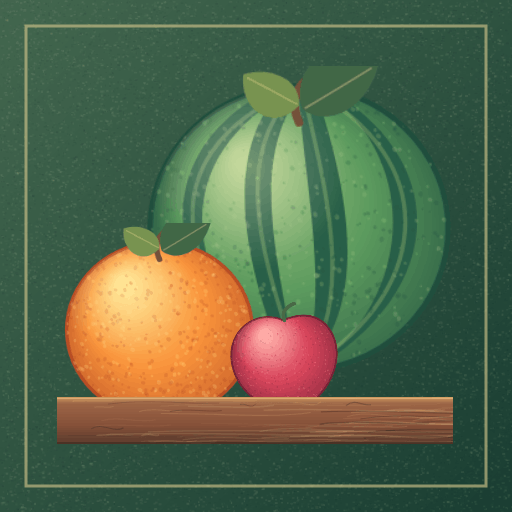
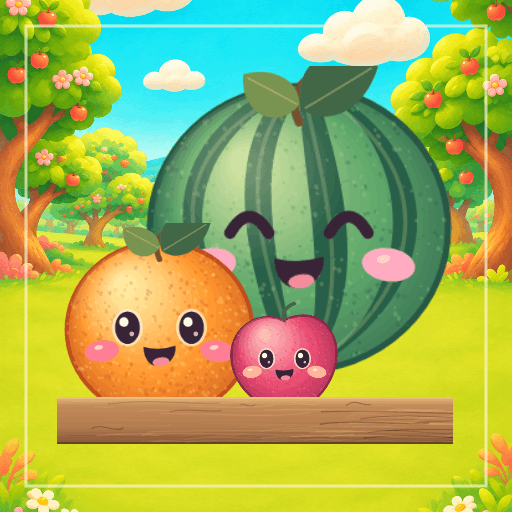
Give Orchard Drop a vibrant orchard and expressive fruit

diff --git a/play/orchard-drop/index.html b/play/orchard-drop/index.html
@@ -3,14 +3,14 @@
 <head>
   <meta charset="utf-8">
   <meta name="viewport" content="width=device-width, initial-scale=1, viewport-fit=cover">
-  <meta name="theme-color" content="#f5eddb">
+  <meta name="theme-color" content="#f3efda">
   <meta name="description" content="Drop fruit into a harvest crate, chain matching pairs, and make room for a watermelon.">
   <meta property="og:title" content="Orchard Drop">
   <meta property="og:description" content="Drop fruit into a harvest crate, chain matching pairs, and make room for a watermelon.">
   <meta property="og:image" content="../../carts/orchard-drop/assets/poster.png">
   <title>Orchard Drop</title>
-  <link rel="icon" href="../../carts/orchard-drop/assets/icon.png" sizes="512x512" type="image/png">
-  <link rel="stylesheet" href="./orchard.css">
+  <link rel="icon" href="../../carts/orchard-drop/assets/icon.png?v=2" sizes="512x512" type="image/png">
+  <link rel="stylesheet" href="./orchard.css?v=2">
 </head>
 <body data-cart="orchard-drop">
   <main>
@@ -21,7 +21,7 @@
     </header>
 
     <section id="intro" aria-label="How to play">
-      <img class="poster" src="../../carts/orchard-drop/assets/poster.png" width="1200" height="630" alt="Illustrated fruit in a wooden harvest crate">
+      <img class="poster" src="../../carts/orchard-drop/assets/poster.png?v=2" width="1200" height="630" alt="Smiling fruit in a wooden crate in a sunny orchard">
       <button id="play" class="primary" type="button">Play Orchard Drop</button>
       <ol class="rules">
         <li>Press and drag to aim. Release to drop.</li>
@@ -71,6 +71,6 @@
     <a class="library-link" href="../../">Back to Library</a>
   </dialog>
   <div id="safe-area" aria-hidden="true"></div>
-  <script type="module" src="./orchard.mjs"></script>
+  <script type="module" src="./orchard.mjs?v=2"></script>
 </body>
 </html>

diff --git a/carts/orchard-drop/code.js b/carts/orchard-drop/code.js
@@ -246,19 +246,25 @@ export function createCart(api) {
     });
     api.spr('assets/crate.webp', 0, 0, { sx: scale / 2, sy: scale / 2 });
 
-    const limitColor = danger ? [1, .43, .31, .9] : [1, .79, .49, .34];
-    for (let x = CRATE.left + 7; x < CRATE.right - 5; x += 10) rect(x, CRATE.line, 4, 1, limitColor);
+    const limitColor = danger ? [.67, .21, .15, 1] : [.49, .32, .19, .8];
+    for (let x = CRATE.left + 7; x < CRATE.right - 5; x += 10) {
+      rect(x, CRATE.line - 1, 6, 3, [1, .97, .83, .76]);
+      rect(x, CRATE.line, 6, 1.5, limitColor);
+    }
     if (danger) {
       const fill = Math.min(1, danger / OVERFLOW_TICKS);
-      rect(CRATE.left, CRATE.line - 2, (CRATE.right - CRATE.left) * fill, 2, [1, .39, .28, .9]);
+      rect(CRATE.left, CRATE.line - 3, (CRATE.right - CRATE.left) * fill, 3, limitColor);
     }
 
     if (!lost && !cooldown) {
       const x = aim();
       const radius = FRUIT[current].radius;
       const end = guideEnd(x, radius);
-      const guideColor = [1, .88, .68, pointer === null ? .26 : .6];
-      for (let y = DROP_Y + radius + 7; y < end; y += 10) rect(x - .6, y, 1.2, 4, guideColor);
+      const guideColor = [.16, .37, .27, pointer === null ? .58 : .9];
+      for (let y = DROP_Y + radius + 7; y < end; y += 10) {
+        rect(x - 1.2, y - .6, 2.4, 5.2, [1, .98, .88, .63]);
+        rect(x - .65, y, 1.3, 4, guideColor);
+      }
       fruit(current, x, DROP_Y, radius, end < DROP_Y ? .35 : 1);
     }
     for (const body of bodies) {

diff --git a/play/orchard-drop/orchard.css b/play/orchard-drop/orchard.css
@@ -2,7 +2,7 @@
   color-scheme: light;
   --ink: #223a2d;
   --muted: #56644c;
-  --paper: #f5eddb;
+  --paper: #f3efda;
   --cream: #fffaee;
   --accent: #f3ad62;
   --line: #ded1b7;
@@ -17,7 +17,7 @@
 body {
   margin: 0;
   min-height: 100vh;
-  background: radial-gradient(ellipse at 50% 10%, #fff9ec, var(--paper) 75%);
+  background: radial-gradient(ellipse at 50% 6%, #fffcf0, var(--paper) 67%, #edeecd);
 }
 
 main {
@@ -116,7 +116,7 @@ button:disabled { opacity: .56; cursor: default; }
   position: relative;
   border-radius: 14px;
   overflow: hidden;
-  background: #1b332a;
+  background: #c6dfde;
   box-shadow: 0 4px 14px #52432b32;
 }
 canvas {

diff --git a/docs/carts/orchard-drop.md b/docs/carts/orchard-drop.md
@@ -1,6 +1,6 @@
 # Orchard Drop
 
-Orchard Drop is a portrait score-attack puzzle set in a wooden harvest crate. Aim a fruit along the drop guide, release it, and let it roll into a matching fruit.
+Orchard Drop is a portrait score-attack puzzle set in a wooden harvest crate against a sunny orchard backdrop. Each fruit has a distinct face and silhouette. Aim a fruit along the drop guide, release it, and let it roll into a matching fruit.
 
 ## Controls
 
